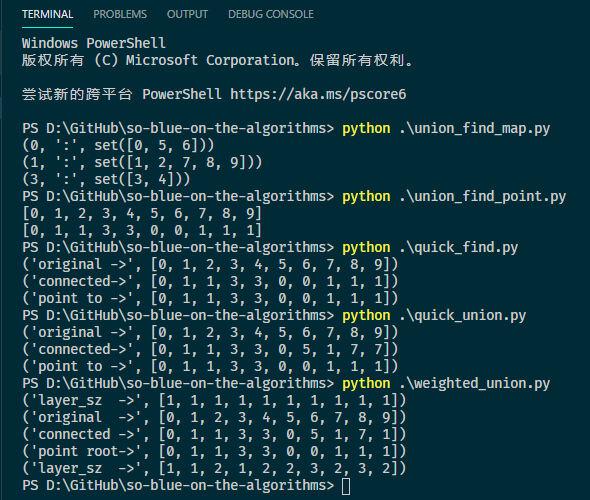
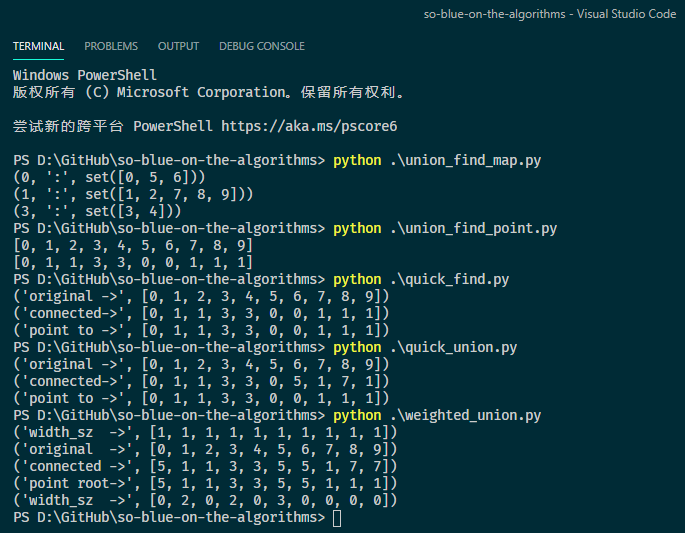
哎哟我去，weighted 不是层级是宽度:)

Changed region(s): [[0.0, 0.0, 0.9763, 0.99], [0.6102, 0.0, 1.0, 0.06], [0.2746, 0.0, 0.3356, 0.03]]

diff --git a/weighted_union.py b/weighted_union.py
@@ -1,3 +1,4 @@
+# -*- coding: utf-8
 # Dynamic Connectivity
 # Question
 # How many connected components result after performing the following sequence of union operations on a set of items?
@@ -15,8 +16,8 @@ u8 = (1, 9)
 union_lst = (u1, u2, u3, u4, u5, u6, u7, u8)
 # point to itself
 point_lst = [i for i in range(0, 10)]
-layer_size = [1 for i in range(0, 10)]
-print('layer_sz  ->', layer_size)
+width_size = [1 for i in range(0, 10)]
+print('width_sz  ->', width_size)
 print('original  ->', point_lst)
 
 # implement interface
@@ -26,28 +27,31 @@ def linked_in(p1, p2):
     ###################
     # weighted union #
     #################
-    s1 = layer_size[p1]
-    s2 = layer_size[p2]
+    s1 = width_size[p1]
+    s2 = width_size[p2]
     root = r1
     if s1 < s2:
         root = r2
     if r1 == root:
         point_lst[r2] = root
+        width_size[p1] = s1 + 1
+        width_size[p2] = 0
     elif r2 == root:
         point_lst[r1] = root
+        width_size[p2] = s2 + 1
+        width_size[p1] = 0
 
 def is_linked(p1, p2):
     return find_root(p1) == find_root(p2)
 
 def find_root(point):
     root = point
-    size = 1
     while point_lst[root] != root:
         root = point_lst[root]
-        size = size + 1
-    # set current point to root
-    point_lst[point] = root
-    layer_size[point] = size
+    # 压缩路径 提高 find 效率，压缩还要增加 width，麻烦
+    if root != point:
+        # point_lst[point] = root
+        width_size[point] = 0
     return root
 
 # connect each union
@@ -60,7 +64,7 @@ print('connected ->', point_lst)
 # point to root with re-find
 ###
 for index in range(0, 10):
-    find_root(index)
+    point_lst[index] = find_root(index)
 
 print('point root->', point_lst)
-print('layer_sz  ->', layer_size)
+print('width_sz  ->', width_size)

diff --git a/quick_union.py b/quick_union.py
@@ -1,3 +1,4 @@
+# -*- coding: utf-8
 # Dynamic Connectivity
 # Question
 # How many connected components result after performing the following sequence of union operations on a set of items?
@@ -37,9 +38,12 @@ def find_root(point):
     ################
     # find deeply #
     ##############
+    current_point = point
     while point_lst[point] != point:
         point = point_lst[point]
-    # harness set current point to root
+    # 压缩路径，提高 find 效率
+    if current_point != point:
+        point_lst[current_point] = point
     return point
 
 # connect each union
